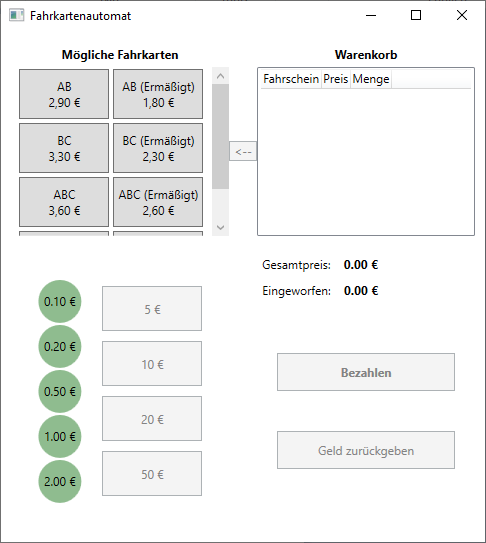
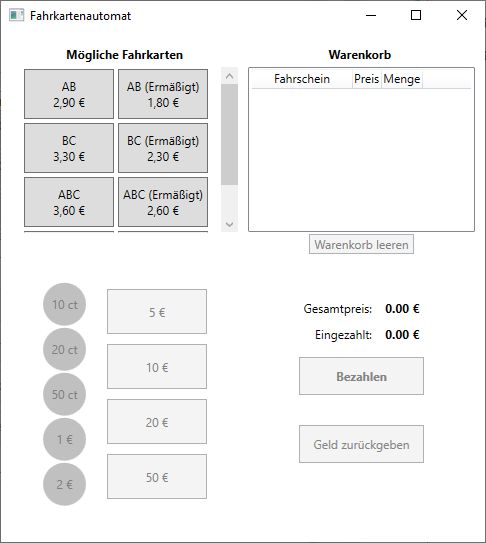
Update UI
* Use MoneyValue
* Contitional styling for the deactivated round buttons
* Add "Clear shopping cart" button
* Update Screenshots

diff --git a/MainWindow.xaml b/MainWindow.xaml
@@ -12,27 +12,30 @@
     <Window.DataContext>
         <vm:MainWindowViewModel/>
     </Window.DataContext>
+    <Window.Resources>
+        <local:MoneyValueConverter x:Key="MyMoneyConverter" />
+    </Window.Resources>
 
     <Grid>
         <Grid.RowDefinitions>
             <RowDefinition Height="10"/>
             <RowDefinition Height="auto"/>
             <RowDefinition Height="3*"/>
-            <RowDefinition Height="15"/>
+            <RowDefinition Height="auto"/>
             <RowDefinition Height="5*"/>
             <RowDefinition Height="10"/>
         </Grid.RowDefinitions>
         <Grid.ColumnDefinitions>
             <ColumnDefinition Width="10"/>
             <ColumnDefinition Width="*"/>
-            <ColumnDefinition Width="auto"/>
+            <ColumnDefinition Width="10"/>
             <ColumnDefinition Width="*"/>
             <ColumnDefinition Width="10"/>
         </Grid.ColumnDefinitions>
 
         <!-- top left -->
         <Label Grid.Row="1" Grid.Column="1" FontWeight="Bold" HorizontalAlignment="Center">Mögliche Fahrkarten</Label>
-        <ScrollViewer Grid.Row="2" Grid.Column="1"  VerticalScrollBarVisibility="Auto">
+        <ScrollViewer Grid.Row="2" Grid.Column="1" VerticalScrollBarVisibility="Auto">
             <ItemsControl ItemsSource="{Binding PossibleTickets}">
                 <ItemsControl.ItemsPanel>
                     <ItemsPanelTemplate>
@@ -51,21 +54,14 @@
             </ItemsControl>
         </ScrollViewer>
 
-        <!-- top center -->
-        <StackPanel Grid.Row="2" Grid.Column="2" Orientation="Vertical" VerticalAlignment="Center">
-            <Button Margin="0,10,0,10" Content=" &lt;-- "
-                    Command="{Binding RemoveFromCartCommand}"
-                    CommandParameter="{Binding ElementName=shoppingCart_lv,Path=SelectedItem}"/>
-        </StackPanel>
-
         <!-- top right -->
-        <Label Grid.Row="1" Grid.Column="3" FontWeight="Bold" HorizontalAlignment="Center">Warenkorb</Label>
-        <ListView x:Name="shoppingCart_lv" Grid.Row="2" Grid.Column="3" ItemsSource="{Binding ShoppingCart}" 
-                  ToolTip="Doppelklick auf ein Element zum Entfernen aus dem Warenkorb" SelectionMode="Single">
+        <Label Grid.Row="1" Grid.Column="3" FontWeight="Bold" HorizontalAlignment="Center" Content="Warenkorb "/>
+        <ListView Grid.Row="2" Grid.Column="3" x:Name="shoppingCart_lv" VerticalAlignment="Stretch" ItemsSource="{Binding ShoppingCart}"
+                    ToolTip="Doppelklick auf ein Element zum Entfernen aus dem Warenkorb" SelectionMode="Single">
             <i:Interaction.Triggers>
                 <i:EventTrigger EventName="MouseDoubleClick">
                     <i:InvokeCommandAction Command="{Binding RemoveFromCartCommand}" 
-                                           CommandParameter="{Binding ElementName=shoppingCart_lv,Path=SelectedItem}"/>
+                                            CommandParameter="{Binding ElementName=shoppingCart_lv,Path=SelectedItem}"/>
                 </i:EventTrigger>
             </i:Interaction.Triggers>
             <ListView.View>
@@ -77,6 +73,11 @@
             </ListView.View>
         </ListView>
 
+        <!-- middle right -->
+        <Button Grid.Row="3" Grid.Column="3" HorizontalAlignment="Center" Margin="2" VerticalAlignment="Top" Content=" Warenkorb leeren "
+                    Command="{Binding RemoveAllFromCartCommand}"
+                    CommandParameter="{Binding ElementName=shoppingCart_lv,Path=SelectedItem}"/>
+
         <!-- bottom left -->
         <ScrollViewer Grid.Row="4" Grid.Column="1" VerticalScrollBarVisibility="Auto">
             <StackPanel Orientation="Horizontal" HorizontalAlignment="Center">
@@ -84,10 +85,10 @@
                     <ItemsControl ItemsSource="{Binding PossibleCoins}">
                         <ItemsControl.ItemTemplate>
                             <DataTemplate>
-                                <Button Style="{StaticResource RoundedGreenButtonStyle}" Width="45" Height="45"
+                                <Button Style="{StaticResource RoundedButtonStyle}" Width="45" Height="45"
                                         Command="{Binding Path=DataContext.AddMoneyCommand, ElementName=myWindow}" 
                                         CommandParameter="{Binding .}"
-                                        Content="{Binding Path=.}" ContentStringFormat="{}{0:0.00} €"/>
+                                        Content="{Binding Path=., Converter={StaticResource MyMoneyConverter}}"/>
                             </DataTemplate>
                         </ItemsControl.ItemTemplate>
                     </ItemsControl>
@@ -100,7 +101,7 @@
                                 <Button Width="100" Height="45" Margin="0,5"
                                     Command="{Binding Path=DataContext.AddMoneyCommand, ElementName=myWindow}" 
                                     CommandParameter="{Binding .}"
-                                    Content="{Binding .}" ContentStringFormat="{}{0} €"/>
+                                    Content="{Binding Path=., Converter={StaticResource MyMoneyConverter}}"/>
                             </DataTemplate>
                         </ItemsControl.ItemTemplate>
                     </ItemsControl>
@@ -108,19 +109,18 @@
             </StackPanel>
         </ScrollViewer>
 
-
         <!-- bottom right -->
-        <StackPanel Grid.Row="4"  Grid.Column="3">
-            <StackPanel Orientation="Horizontal">
+        <StackPanel Grid.Row="4" Grid.Column="3" HorizontalAlignment="Center" VerticalAlignment="Center">
+            <StackPanel Orientation="Horizontal" HorizontalAlignment="Right">
                 <Label>Gesamtpreis:</Label>
                 <Label FontWeight="Bold" Content="{Binding Path=TotalPrice}" ContentStringFormat=" {0:0.00} €" />
             </StackPanel>
-            <StackPanel Orientation="Horizontal">
-                <Label>Eingeworfen:</Label>
+            <StackPanel Orientation="Horizontal" HorizontalAlignment="Right">
+                <Label>Eingezahlt:</Label>
                 <Label FontWeight="Bold" Content="{Binding Path=EnteredMoneyTotal}" ContentStringFormat=" {0:0.00} €" />
             </StackPanel>
-            <Button Padding="10" Margin="20,50,20,20" FontWeight="Bold" Command="{Binding PayCommand}">Bezahlen</Button>
-            <Button Padding="10" Margin="20" Command="{Binding EjectMoneyCommand}">Geld zurückgeben</Button>
+            <Button Padding="10" Margin="0,10,0,0" FontWeight="Bold" Command="{Binding PayCommand}">Bezahlen</Button>
+            <Button Padding="10" Margin="0,30" Command="{Binding EjectMoneyCommand}">Geld zurückgeben</Button>
         </StackPanel>
     </Grid>
 </Window>

diff --git a/App.xaml b/App.xaml
@@ -4,29 +4,7 @@
              xmlns:local="clr-namespace:Fahrkartenautomat"
              StartupUri="MainWindow.xaml">
     <Application.Resources>
-        <Style x:Key="RoundedCopperButtonStyle" TargetType="{x:Type Button}">
-            <Setter Property="Template">
-                <Setter.Value>
-                    <ControlTemplate TargetType="Button">
-                        <Border CornerRadius="25" BorderThickness="1" Background="Peru" Padding="2">
-                            <ContentPresenter HorizontalAlignment="Center" VerticalAlignment="Center" />
-                        </Border>
-                    </ControlTemplate>
-                </Setter.Value>
-            </Setter>
-        </Style>
-        <Style x:Key="RoundedGreenButtonStyle" TargetType="{x:Type Button}">
-            <Setter Property="Template">
-                <Setter.Value>
-                    <ControlTemplate TargetType="Button">
-                        <Border CornerRadius="25" BorderThickness="1"  Background="DarkSeaGreen" Padding="2">
-                            <ContentPresenter HorizontalAlignment="Center" VerticalAlignment="Center" />
-                        </Border>
-                    </ControlTemplate>
-                </Setter.Value>
-            </Setter>
-        </Style>
-        <Style x:Key="RoundedSilverButtonStyle" TargetType="{x:Type Button}">
+        <Style x:Key="RoundedButtonStyle" TargetType="{x:Type Button}">
             <Setter Property="Template">
                 <Setter.Value>
                     <ControlTemplate TargetType="Button">
@@ -36,6 +14,22 @@
                     </ControlTemplate>
                 </Setter.Value>
             </Setter>
+            <Setter Property="Foreground" Value="Gray"/>
+
+            <Style.Triggers>
+                <Trigger Property="IsEnabled" Value="True">
+                    <Setter Property="Template">
+                        <Setter.Value>
+                            <ControlTemplate TargetType="Button">
+                                <Border CornerRadius="25" BorderThickness="1" Background="SandyBrown" Padding="2">
+                                    <ContentPresenter HorizontalAlignment="Center" VerticalAlignment="Center" />
+                                </Border>
+                            </ControlTemplate>
+                        </Setter.Value>
+                    </Setter>
+                    <Setter Property="Foreground" Value="Black"/>
+                </Trigger>
+            </Style.Triggers>
         </Style>
     </Application.Resources>
 </Application>

diff --git a/ViewModel/MainWindowViewModel.cs b/ViewModel/MainWindowViewModel.cs
@@ -1,5 +1,4 @@
 using Fahrkartenautomat.Model;
-using System;
 using System.Collections.Generic;
 using System.Collections.ObjectModel;
 using System.ComponentModel;
@@ -41,7 +40,7 @@ namespace Fahrkartenautomat.ViewModel
                 return _addToCartCommand;
             }
         }
-        
+
         /// <summary>
         /// Removes selected ticket from shopping cart
         /// </summary>
@@ -57,6 +56,24 @@ namespace Fahrkartenautomat.ViewModel
                         p => this.RemoveFromCart((Ticket)p));
                 }
                 return _removeFromCartCommand;
+            }
+        }
+
+        /// <summary>
+        /// Removes selected ticket from shopping cart
+        /// </summary>
+        private ICommand _removeAllFromCartCommand;
+        public ICommand RemoveAllFromCartCommand
+        {
+            get
+            {
+                if (_removeAllFromCartCommand == null)
+                {
+                    _removeAllFromCartCommand = new RelayCommand(
+                        p => ShoppingCart.Any(),
+                        p => this.RemoveAllFromCart());
+                }
+                return _removeAllFromCartCommand;
             }
         }
 
@@ -142,9 +159,9 @@ namespace Fahrkartenautomat.ViewModel
             {
                 StringBuilder message = new StringBuilder();
                 message.AppendLine("Folgende Fahrscheine gekauft: ");
-                ShoppingCart.ToList().ForEach(ticket => message.AppendLine($"- {ticket.Amount}x {ticket.Type}"));
-
+                ShoppingCart.ToList().ForEach(ticket => message.AppendLine($"- {ticket.Amount}x {ticket.TicketName}"));
                 message.AppendLine();
+
                 message.AppendLine($"Wechselgeld: {change:0.00}€");
                 message.AppendLine(GetStringFromMoneyList(CalculateChange()));
 
@@ -206,16 +223,23 @@ namespace Fahrkartenautomat.ViewModel
             return param != null;
         }
 
-        private void RemoveFromCart(Ticket param)
+        private void RemoveFromCart(Ticket ticket)
         {
-            var ticket = param;
             ticket.Amount--;
 
             if (ticket.Amount == 0)
             {
                 ShoppingCart.Remove(ticket);
-            }
+            } 
             RefillShoppingCart();
+        }
+
+        private void RemoveAllFromCart()
+        {
+            ShoppingCart.ToList().ForEach(t => t.Amount = 0 );
+            ShoppingCart.Clear();
+
+            RaisePropertyChanged(nameof(TotalPrice));
         }
 
         /// <summary>
@@ -238,7 +262,6 @@ namespace Fahrkartenautomat.ViewModel
             }
             tmpList.Clear();
             
-            RaisePropertyChanged(nameof(ShoppingCart));
             RaisePropertyChanged(nameof(TotalPrice));
         }
 
@@ -297,38 +320,6 @@ namespace Fahrkartenautomat.ViewModel
         private void RaisePropertyChanged([CallerMemberName] string propertyName = "")
         {
             PropertyChanged?.Invoke(this, new PropertyChangedEventArgs(propertyName));
-        }
-    }
-
-    /// <summary>
-    /// Class that represents a command for executing a function.
-    /// Includes ability to disable the button in some conditions ("canExecute").
-    /// </summary>
-    public class RelayCommand : ICommand
-    {
-        private readonly Predicate<object> _canExecute;
-        private readonly Action<object> _execute;
-
-        public RelayCommand(Predicate<object> canExecute, Action<object> execute)
-        {
-            _canExecute = canExecute;
-            _execute = execute;
-        }
-
-        public event EventHandler CanExecuteChanged
-        {
-            add => CommandManager.RequerySuggested += value;
-            remove => CommandManager.RequerySuggested -= value;
-        }
-
-        public bool CanExecute(object parameter)
-        {
-            return _canExecute(parameter);
-        }
-
-        public void Execute(object parameter)
-        {
-            _execute(parameter);
         }
     }
 }
